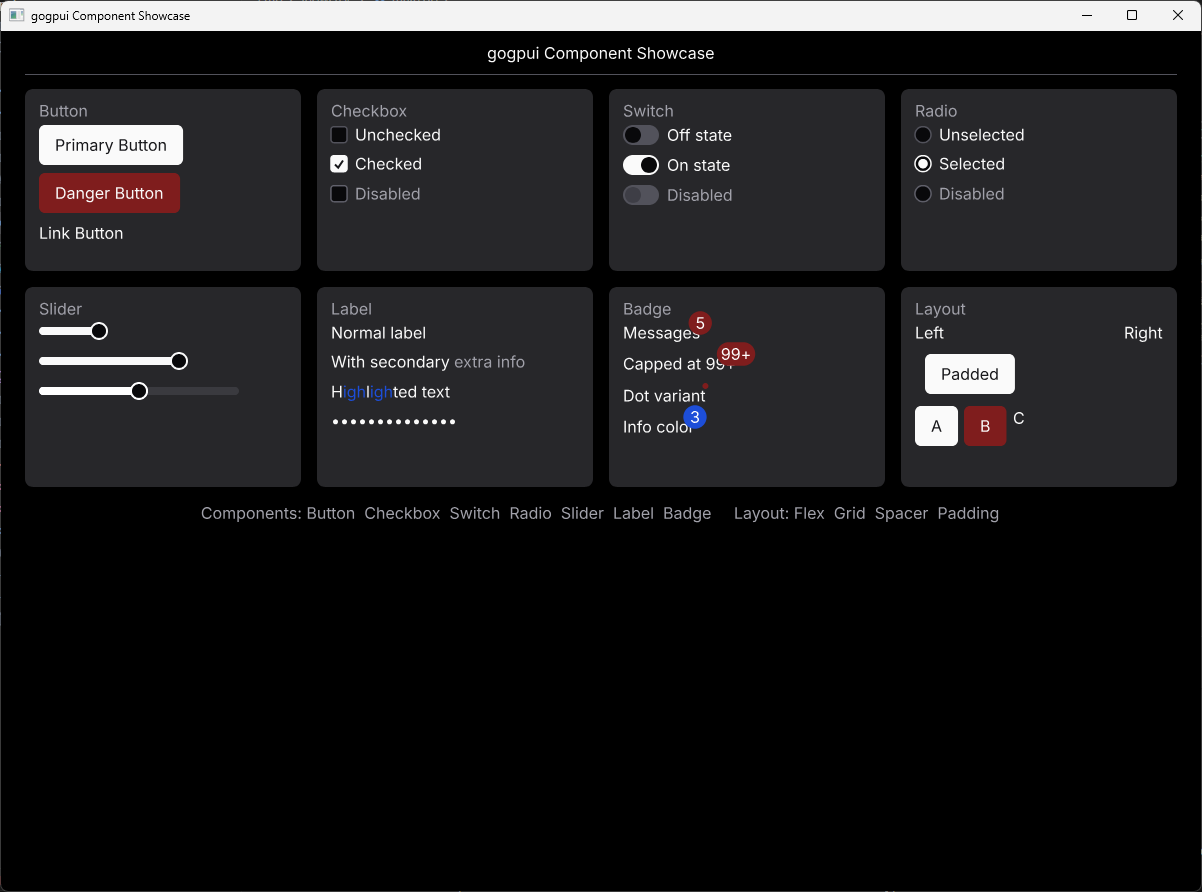
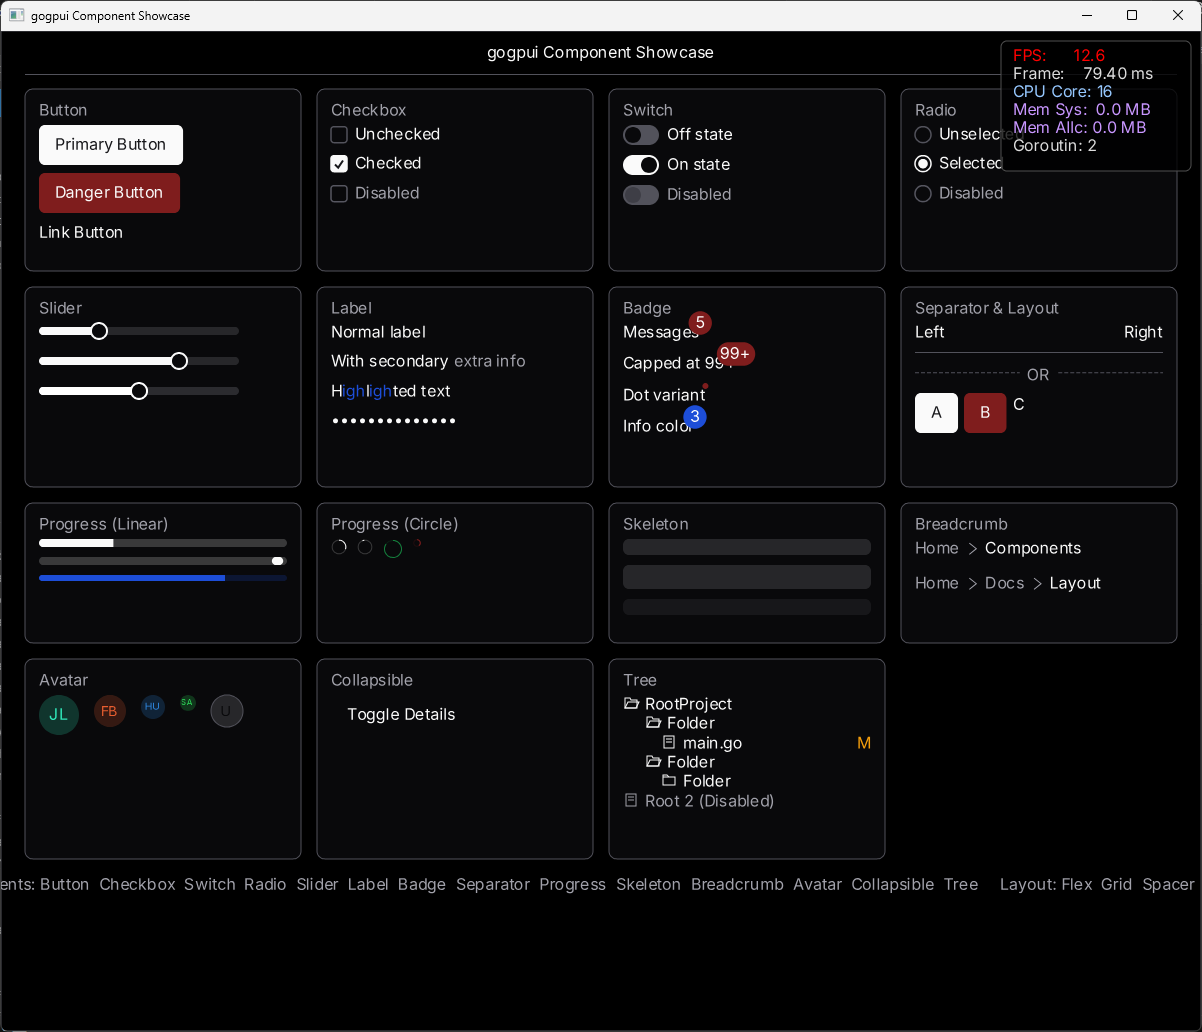
feat: implement core layout system and scroll component with supporting context utilities

diff --git a/core/context/context.go b/core/context/context.go
@@ -40,6 +40,11 @@ type WidgetState struct {
 	IsDragging   bool
 }
 
+// ClipRect represents a clipping region for culling.
+type ClipRect struct {
+	X, Y, W, H float64
+}
+
 // UIContext wraps gg.Context and provides immediate-mode UI state and input.
 type UIContext struct {
 	GG           *gg.Context
@@ -59,6 +64,8 @@ type UIContext struct {
 	
 	// Window はOSウィンドウへの操作を提供します。
 	Window WindowControl
+
+	clipStack []ClipRect
 	
 	// dragRegions は今フレームで登録されたドラッグ可能領域のリスト
 	dragRegions []image.Rectangle
@@ -68,8 +75,10 @@ type UIContext struct {
 // NewUIContext creates a new UIContext.
 func NewUIContext() *UIContext {
 	return &UIContext{
-		States: make(map[string]*WidgetState),
-		Scale:  1.0,
+		States:      make(map[string]*WidgetState),
+		Scale:       1.0,
+		dragRegions: make([]image.Rectangle, 0),
+		clipStack:   make([]ClipRect, 0),
 	}
 }
 
@@ -118,7 +127,67 @@ func (c *UIContext) GetState(id string) *WidgetState {
 
 // HitTest checks if the mouse is currently over the given rectangular bounds.
 func (c *UIContext) HitTest(x, y, w, h float64) bool {
+	if !c.IsVisible(c.Mouse.X, c.Mouse.Y, 1, 1) { // 簡易的なクリップ内判定
+		// Note: より厳密には、HitTest自体もClipRectと交差判定すべきですが、
+		// IsVisible で要素自体がスキップされるため、ここは描画された要素上での判定となります。
+	}
 	return c.Mouse.X >= x && c.Mouse.X <= x+w && c.Mouse.Y >= y && c.Mouse.Y <= y+h
+}
+
+// PushClip pushes a new clipping region to the stack.
+// The new region is the intersection of the current clip and the provided rectangle.
+func (c *UIContext) PushClip(x, y, w, h float64) {
+	current := c.CurrentClip()
+	
+	nx := x
+	if nx < current.X {
+		nx = current.X
+	}
+	ny := y
+	if ny < current.Y {
+		ny = current.Y
+	}
+	
+	nr := x + w
+	if cr := current.X + current.W; nr > cr {
+		nr = cr
+	}
+	nb := y + h
+	if cb := current.Y + current.H; nb > cb {
+		nb = cb
+	}
+	
+	nw := nr - nx
+	if nw < 0 {
+		nw = 0
+	}
+	nh := nb - ny
+	if nh < 0 {
+		nh = 0
+	}
+	
+	c.clipStack = append(c.clipStack, ClipRect{X: nx, Y: ny, W: nw, H: nh})
+}
+
+// PopClip removes the top clipping region from the stack.
+func (c *UIContext) PopClip() {
+	if len(c.clipStack) > 0 {
+		c.clipStack = c.clipStack[:len(c.clipStack)-1]
+	}
+}
+
+// CurrentClip returns the current active clipping region.
+func (c *UIContext) CurrentClip() ClipRect {
+	if len(c.clipStack) == 0 {
+		return ClipRect{X: -100000, Y: -100000, W: 200000, H: 200000} // Effectively infinite/window size
+	}
+	return c.clipStack[len(c.clipStack)-1]
+}
+
+// IsVisible returns true if the given rectangular area intersects with the current clipping region.
+func (c *UIContext) IsVisible(x, y, w, h float64) bool {
+	clip := c.CurrentClip()
+	return !(x+w <= clip.X || x >= clip.X+clip.W || y+h <= clip.Y || y >= clip.Y+clip.H)
 }
 
 // Animate approaches a target value from current value at a given speed based on DeltaTime.

diff --git a/gogpui.go b/gogpui.go
@@ -289,8 +289,8 @@ func (a *App) Run(onDraw func(*context.UIContext)) {
 			}
 			ctx.SetFont(cachedFace)
 		}
-		// TextModeVector: UI ラベル・品質重視テキスト向け（gg ドキュメント推奨）
-		ctx.SetTextMode(gg.TextModeVector)
+		// TextModeGlyphMask: GPUアトラスを用いたUIテキストの高速・高品質レンダリング
+		ctx.SetTextMode(gg.TextModeGlyphMask)
 
 		uictx.Update(ctx, th, dt, in, lastScale,
 			float64(currentW), float64(currentH))

diff --git a/components/scroll/scroll.go b/components/scroll/scroll.go
@@ -102,8 +102,13 @@ func (s *Scroll) Render(uictx *context.UIContext, x, y float64) (float64, float6
 	ctx.Translate(0, -state.OffsetY)
 	uictx.Mouse.Y += state.OffsetY
 
+	// Push logical clip rect (shifted to content coordinates)
+	uictx.PushClip(x, y+state.OffsetY, s.width, s.height)
+
 	// Draw child
 	s.child.Render(uictx, x, y)
+
+	uictx.PopClip()
 
 	// Restore mouse and context
 	uictx.Mouse.Y -= state.OffsetY

diff --git a/core/layout/grid.go b/core/layout/grid.go
@@ -167,7 +167,11 @@ func (g *Grid) Render(uictx *context.UIContext, x, y float64) (w, h float64) {
 		}
 		cx := x + colOffsets[col]
 		cy := y + rowOffsets[row]
-		child.Render(uictx, math.Round(cx), math.Round(cy))
+		rx, ry := math.Round(cx), math.Round(cy)
+		box := boxes[i]
+		if uictx.IsVisible(rx, ry, box.w, box.h) {
+			child.Render(uictx, rx, ry)
+		}
 	}
 
 	return totalW, totalH

diff --git a/core/layout/flex.go b/core/layout/flex.go
@@ -346,7 +346,10 @@ func (f *Flex) renderNoWrap(uictx *context.UIContext, x, y float64) (w, h float6
 			cursor += box.h + spacing
 		}
 
-		child.Render(uictx, math.Round(cx), math.Round(cy))
+		rx, ry := math.Round(cx), math.Round(cy)
+		if uictx.MeasureOnly || uictx.IsVisible(rx, ry, box.w, box.h) {
+			child.Render(uictx, rx, ry)
+		}
 	}
 
 	return w, h
